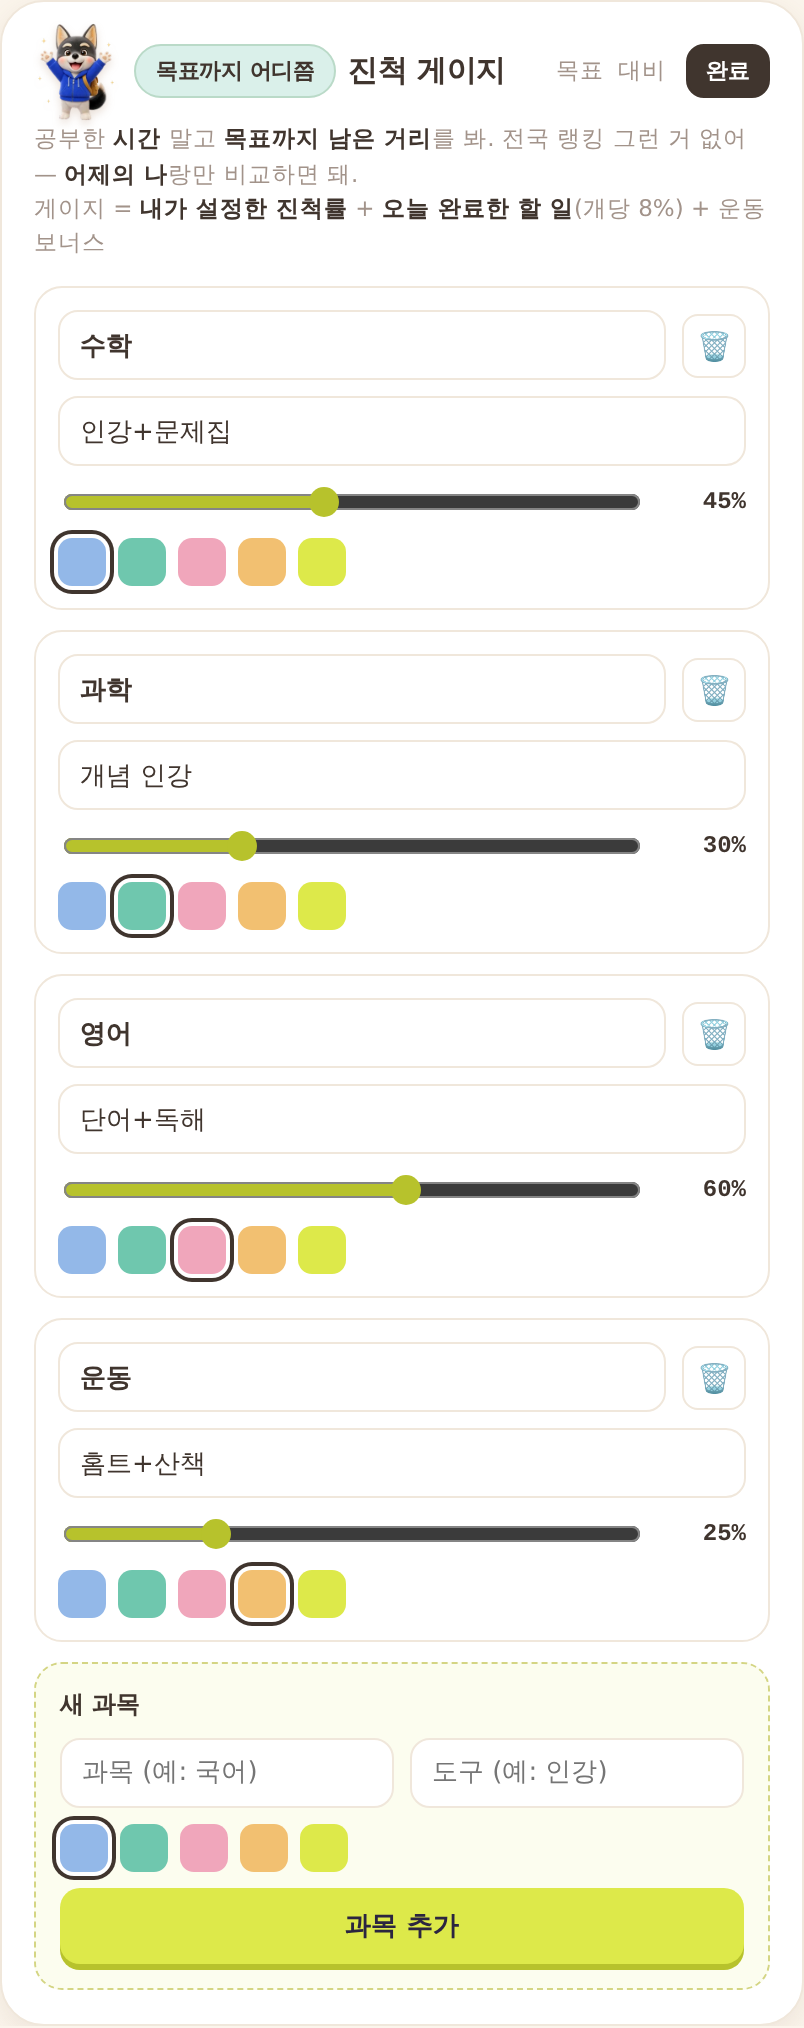
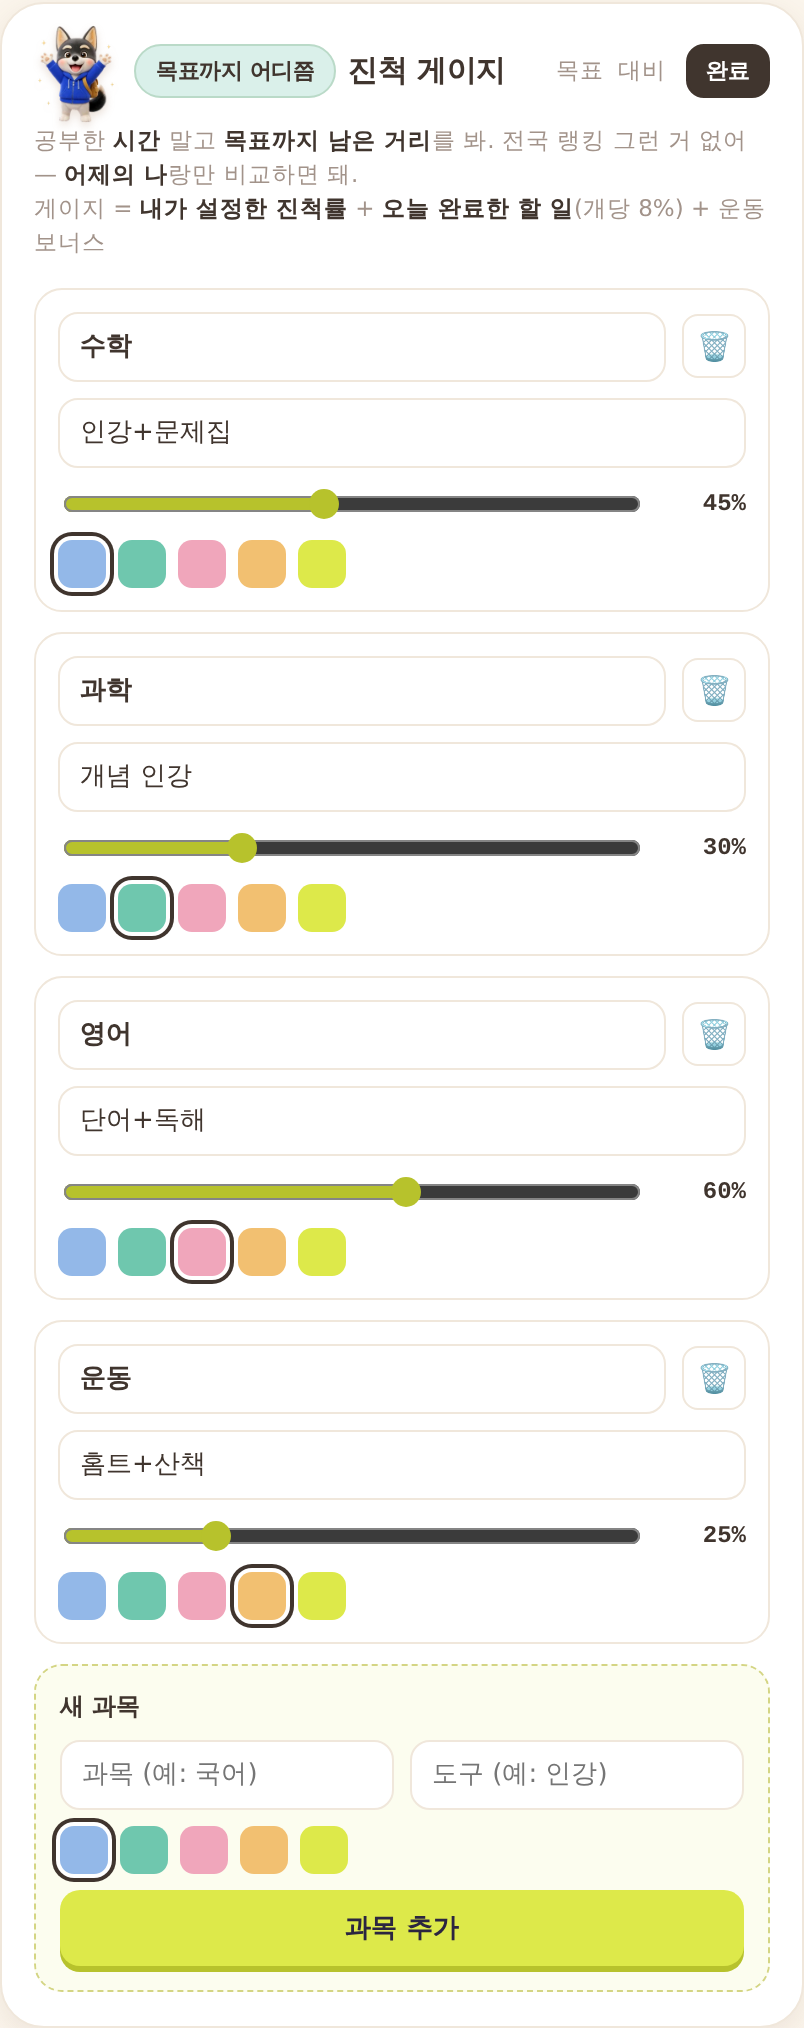
상단 정보 구조 단순화 및 NOW 카드 색 교체
- NOW 카드의 브랜드 블루를 제거하고 명암 대비(짙은 카드 + 라임 버튼)로 강조
  라이트/다크에서 서로 반전되도록 --now-bg/--now-fg 토큰 도입
- 상단 4블록(응원·스트릭·D-day·인사)을 3블록으로 정리
  역할이 겹치던 응원 문구를 히어로 서브라인으로 통합, 순서를 히어로 → NOW → 스트릭으로 재배치
- 사용하지 않게 된 응원 배너 CSS 제거, 스크린샷 갱신

Claude-Session: https://claude.ai/code/session_01Aq5fCgQTr2L5UhckyziSbp

diff --git a/1_mission/6조/웃는돌(장경아)/4주차 과제 제출 폴더/haily-vacation-buddy.html b/1_mission/6조/웃는돌(장경아)/4주차 과제 제출 폴더/haily-vacation-buddy.html
@@ -13,6 +13,9 @@
     --lime-deep: #B7C22C;
     --brand: #2E6FE6;
     --on-brand: #FFFFFF;
+    --now-bg: #3B3129;
+    --now-fg: #FBF5EC;
+    --now-accent: #DDE94A;
     --sky: #93B8E8;
     --mint: #6FC7AE;
     --pink: #F0A6BB;
@@ -35,6 +38,9 @@
       --lime-deep: #E4EF4E;
       --brand: #7FA9EC;
       --on-brand: #142440;
+      --now-bg: #F6EEE5;
+      --now-fg: #241E19;
+      --now-accent: #B7C22C;
       --sky: #7FA0CE;
       --mint: #63B79D;
       --pink: #D291A5;
@@ -45,13 +51,13 @@
   }
   :root[data-theme="light"] {
     --bg: #FBF5EC; --bg-2: #FCE6D3; --card: #FFFFFF; --ink: #40352E; --muted: #A2938A;
-    --line: #F0E7DB; --lime: #DDE94A; --lime-deep: #B7C22C; --brand: #2E6FE6; --on-brand: #FFFFFF; --sky: #93B8E8; --mint: #6FC7AE;
+    --line: #F0E7DB; --lime: #DDE94A; --lime-deep: #B7C22C; --brand: #2E6FE6; --on-brand: #FFFFFF; --now-bg: #3B3129; --now-fg: #FBF5EC; --now-accent: #DDE94A; --sky: #93B8E8; --mint: #6FC7AE;
     --pink: #F0A6BB; --apricot: #F2C071; --shadow: 0 10px 30px rgba(120,90,60,.14);
     --shadow-sm: 0 4px 14px rgba(120,90,60,.10);
   }
   :root[data-theme="dark"] {
     --bg: #1E1A17; --bg-2: #2A2320; --card: #2B2521; --ink: #F6EEE5; --muted: #B6A79B;
-    --line: #3C332C; --lime: #E4EF4E; --lime-deep: #E4EF4E; --brand: #7FA9EC; --on-brand: #142440; --sky: #7FA0CE; --mint: #63B79D;
+    --line: #3C332C; --lime: #E4EF4E; --lime-deep: #E4EF4E; --brand: #7FA9EC; --on-brand: #142440; --now-bg: #F6EEE5; --now-fg: #241E19; --now-accent: #B7C22C; --sky: #7FA0CE; --mint: #63B79D;
     --pink: #D291A5; --apricot: #D9AE6F; --shadow: 0 12px 34px rgba(0,0,0,.40);
     --shadow-sm: 0 4px 16px rgba(0,0,0,.34);
   }
@@ -153,7 +159,7 @@
     box-shadow: 0 2px 0 var(--lime-deep); margin-bottom: 7px;
   }
   .hi h1 { font-size: 18px; margin: 0 0 4px; letter-spacing: -.4px; line-height: 1.3; text-wrap: balance; }
-  .hi p { margin: 0; font-size: 12.5px; color: var(--muted); line-height: 1.5; }
+  .hi p { margin: 0; font-size: 12.5px; color: var(--muted); line-height: 1.5; font-weight: 600; }
 
   /* ---------- Mode toggle ---------- */
   .modes { display: flex; gap: 6px; background: var(--card); border: 1px solid var(--line);
@@ -378,36 +384,39 @@
 
   /* NOW card — 다음 행동을 최상단에 */
   .now-card {
-    background: var(--card); border: 1px solid color-mix(in srgb, var(--brand) 30%, var(--line));
-    border-radius: var(--radius); padding: 15px 16px 16px;
-    box-shadow: 0 8px 24px color-mix(in srgb, var(--brand) 14%, transparent);
+    background: var(--now-bg); color: var(--now-fg);
+    border: 1px solid color-mix(in srgb, var(--now-fg) 12%, transparent);
+    border-radius: var(--radius); padding: 16px;
+    box-shadow: 0 10px 26px rgba(90, 65, 40, .20);
     position: relative; overflow: hidden;
   }
-  .now-card::before {
-    content: ""; position: absolute; left: 0; top: 0; bottom: 0; width: 4px; background: var(--brand);
-  }
   .now-label {
-    font-size: 10.5px; font-weight: 800; letter-spacing: .4px; color: var(--brand);
-    text-transform: uppercase; margin-bottom: 5px;
+    font-size: 10.5px; font-weight: 800; letter-spacing: .5px; color: var(--now-accent);
+    text-transform: uppercase; margin-bottom: 6px;
   }
-  .now-title { font-size: 17px; font-weight: 800; letter-spacing: -.4px; line-height: 1.35; color: var(--ink); }
-  .now-meta { font-size: 11.5px; color: var(--muted); margin-top: 4px; }
+  .now-title { font-size: 18px; font-weight: 800; letter-spacing: -.4px; line-height: 1.35; color: var(--now-fg); }
+  .now-meta { font-size: 11.5px; color: color-mix(in srgb, var(--now-fg) 62%, transparent); margin-top: 5px; }
   .now-actions { display: flex; gap: 8px; margin-top: 13px; }
   .now-actions button {
     flex: 1; padding: 11px; border-radius: 13px; font-size: 13.5px; font-weight: 800; cursor: pointer;
-    font-family: var(--font); border: 1px solid var(--line); background: var(--card); color: var(--ink);
+    font-family: var(--font);
+    border: 1px solid color-mix(in srgb, var(--now-fg) 28%, transparent);
+    background: transparent; color: var(--now-fg);
   }
   .now-actions .now-start {
-    background: var(--brand); border-color: transparent; color: var(--on-brand);
-    box-shadow: 0 3px 0 color-mix(in srgb, var(--brand) 65%, #000);
+    background: var(--lime); border-color: transparent; color: #2b2540;
+    box-shadow: 0 3px 0 var(--lime-deep);
   }
-  .now-actions .now-start:active { transform: translateY(2px); box-shadow: 0 1px 0 color-mix(in srgb, var(--brand) 65%, #000); }
+  .now-actions .now-start:active { transform: translateY(2px); box-shadow: 0 1px 0 var(--lime-deep); }
   .now-timer { margin-top: 13px; }
   .nt-head { display: flex; justify-content: space-between; align-items: baseline; margin-bottom: 7px; }
   .nt-head span:first-child { font-size: 12.5px; font-weight: 700; }
   .nt-time { font-family: var(--mono); font-size: 24px; font-weight: 800; font-variant-numeric: tabular-nums; }
-  .now-timer .timer-fill { background: linear-gradient(90deg, var(--brand), var(--mint)); }
-  .now-card.done-all .now-title { color: var(--muted); }
+  .now-timer .timer-bar { background: color-mix(in srgb, var(--now-fg) 16%, transparent); }
+  .now-timer .timer-fill { background: linear-gradient(90deg, var(--lime), var(--apricot)); }
+  .now-timer .timer-cancel { background: transparent; color: color-mix(in srgb, var(--now-fg) 65%, transparent);
+    border-color: color-mix(in srgb, var(--now-fg) 25%, transparent); }
+  .now-card.done-all .now-title { color: color-mix(in srgb, var(--now-fg) 70%, transparent); }
 
   /* gauge breakdown */
   .g-basis { font-size: 10.5px; color: var(--muted); margin-top: 4px; letter-spacing: -.1px; }
@@ -415,18 +424,7 @@
   /* schedule rule */
   .rule-list { margin: 0 0 12px; padding: 0; list-style: none; font-size: 11.5px; color: var(--muted); line-height: 1.6; }
   .rule-list li { padding-left: 14px; position: relative; }
-  .rule-list li::before { content: ""; position: absolute; left: 3px; top: 8px; width: 4px; height: 4px; border-radius: 50%; background: var(--brand); }
-
-  /* quote banner */
-  .quote-banner {
-    display: flex; align-items: center; gap: 10px;
-    background: var(--card); border: 1px solid var(--line); border-radius: 16px;
-    padding: 9px 12px; box-shadow: var(--shadow-sm);
-  }
-  .qb-mascot { width: 52px; height: 52px; margin: -6px -2px -6px -4px; }
-  .qb-body { min-width: 0; }
-  .qb-label { font-size: 10px; font-weight: 800; letter-spacing: .5px; color: var(--muted); text-transform: uppercase; margin-bottom: 2px; }
-  .qb-text { font-size: 13px; font-weight: 700; color: var(--ink); line-height: 1.45; letter-spacing: -.2px; }
+  .rule-list li::before { content: ""; position: absolute; left: 3px; top: 8px; width: 4px; height: 4px; border-radius: 50%; background: var(--lime-deep); }
 
   /* streak card-news */
   .streak-news {
@@ -479,6 +477,15 @@
     <button class="theme-btn" id="themeBtn" aria-label="테마 전환" title="라이트/다크 전환">🌙</button>
   </div>
 
+  <div class="hero">
+    <div class="mascot-wrap"><img id="mascot" title="콕 눌러봐!" alt="고고버디 마스코트" /></div>
+    <div class="hi">
+      <span class="dday" id="dday">D-27 · 방학</span>
+      <h1 id="greet">좋은 아침, Haily! </h1>
+      <p id="greetSub">오늘도 한 칸씩 굴러가 보자.</p>
+    </div>
+  </div>
+
   <div class="now-card" id="nowCard">
     <div class="now-label">지금 이거 하나</div>
     <div class="now-title" id="nowTitle">—</div>
@@ -491,14 +498,6 @@
       <div class="nt-head"><span>집중 중</span><span class="nt-time" id="nowTime">25:00</span></div>
       <div class="timer-bar"><div class="timer-fill" id="nowFill"></div></div>
       <button class="timer-cancel" id="nowCancel">그만두기</button>
-    </div>
-  </div>
-
-  <div class="quote-banner">
-    <img class="mini qb-mascot" data-expr="happy" alt="" aria-hidden="true" />
-    <div class="qb-body">
-      <div class="qb-label">오늘의 응원</div>
-      <div class="qb-text" id="quoteText">오늘도 한 칸씩 굴러가 보자.</div>
     </div>
   </div>
 
@@ -515,15 +514,6 @@
     <div class="sn-stats">
       <span>오늘 완료 <b id="snToday">0/0</b></span>
       <span>연속 회고 <b id="snReflect">0</b>일</span>
-    </div>
-  </div>
-
-  <div class="hero">
-    <div class="mascot-wrap"><img id="mascot" title="콕 눌러봐!" alt="고고버디 마스코트" /></div>
-    <div class="hi">
-      <span class="dday" id="dday">D-27 · 방학</span>
-      <h1 id="greet">좋은 아침, Haily! </h1>
-      <p id="greetSub">오늘도 스스로 굴러가볼까? 뭐부터 할지 내가 정리해뒀어.</p>
     </div>
   </div>
 
@@ -754,25 +744,21 @@
     document.getElementById("nowClock").textContent =
       String(h).padStart(2, "0") + ":" + String(now.getMinutes()).padStart(2, "0");
 
-    var g = document.getElementById("greet"), gs = document.getElementById("greetSub");
+    var g = document.getElementById("greet");
     var em = document.getElementById("nudgeBuddy"), nm = document.getElementById("nudgeMsg");
     if (h >= 5 && h< 12) {
       g.textContent = "좋은 아침, Haily!";
-      gs.textContent = "오늘도 스스로 굴러가볼까? 뭐부터 할지 내가 정리해뒀어.";
        nm.textContent = "아침이 하루를 정해. 제일 안 풀리는 것부터 딱 하나 시작하자.";
       setMode("am");
     } else if (h >= 12 && h< 18) {
       g.textContent = "오후엔 페이스가 관건!";
-      gs.textContent = "지치기 쉬운 시간이야. 낮잠 대신 몸 한번 움직여줄까?";
        nm.textContent = "슬슬 몸 움직일 시간! 15분만 스트레칭하고 오면 오후 집중력이 달라져.";
     } else if (h >= 18 && h< 23) {
       g.textContent = "하루 마무리 시간이야";
-      gs.textContent = "회고 3줄만 쓰면 오늘도 스스로 잘 닫은 거야.";
        nm.textContent = "이제 마무리 모드. 회고 3줄 쓰고 밤엔 푹 자야 내일 아침이 편해.";
       setMode("pm");
     } else {
       g.textContent = "너무 늦었어, Haily ";
-      gs.textContent = "지금 밤새면 바이오리듬이 깨져. 내일을 위해 오늘은 여기까지!";
        nm.textContent = "밤샘은 내일의 나를 힘들게 해. 회고만 남기고 얼른 자자.";
       setMode("pm");
     }
@@ -1185,11 +1171,12 @@
   function say(msg) {
     sub.textContent = msg;
     if (speakTimer) clearTimeout(speakTimer);
-    speakTimer = setTimeout(refreshTime, 3600);
+    speakTimer = setTimeout(function () { sub.textContent = quoteLine; }, 3600);
   }
   function pick(a) { return a[Math.floor(Math.random() * a.length)]; }
 
   /* ---------- Encouraging quote (rotates each visit) ---------- */
+  var quoteLine = "";
   var QUOTES = [
     "어제보다 딱 1%만. 그거면 충분해.",
     "완벽하게 말고, 꾸준하게.",
@@ -1206,7 +1193,8 @@
   ];
   function renderQuote() {
     state.quoteIdx = ((typeof state.quoteIdx === "number" ? state.quoteIdx : -1) + 1) % QUOTES.length;
-    document.getElementById("quoteText").textContent = QUOTES[state.quoteIdx];
+    quoteLine = QUOTES[state.quoteIdx];
+    document.getElementById("greetSub").textContent = quoteLine;
     save();
   }
 
